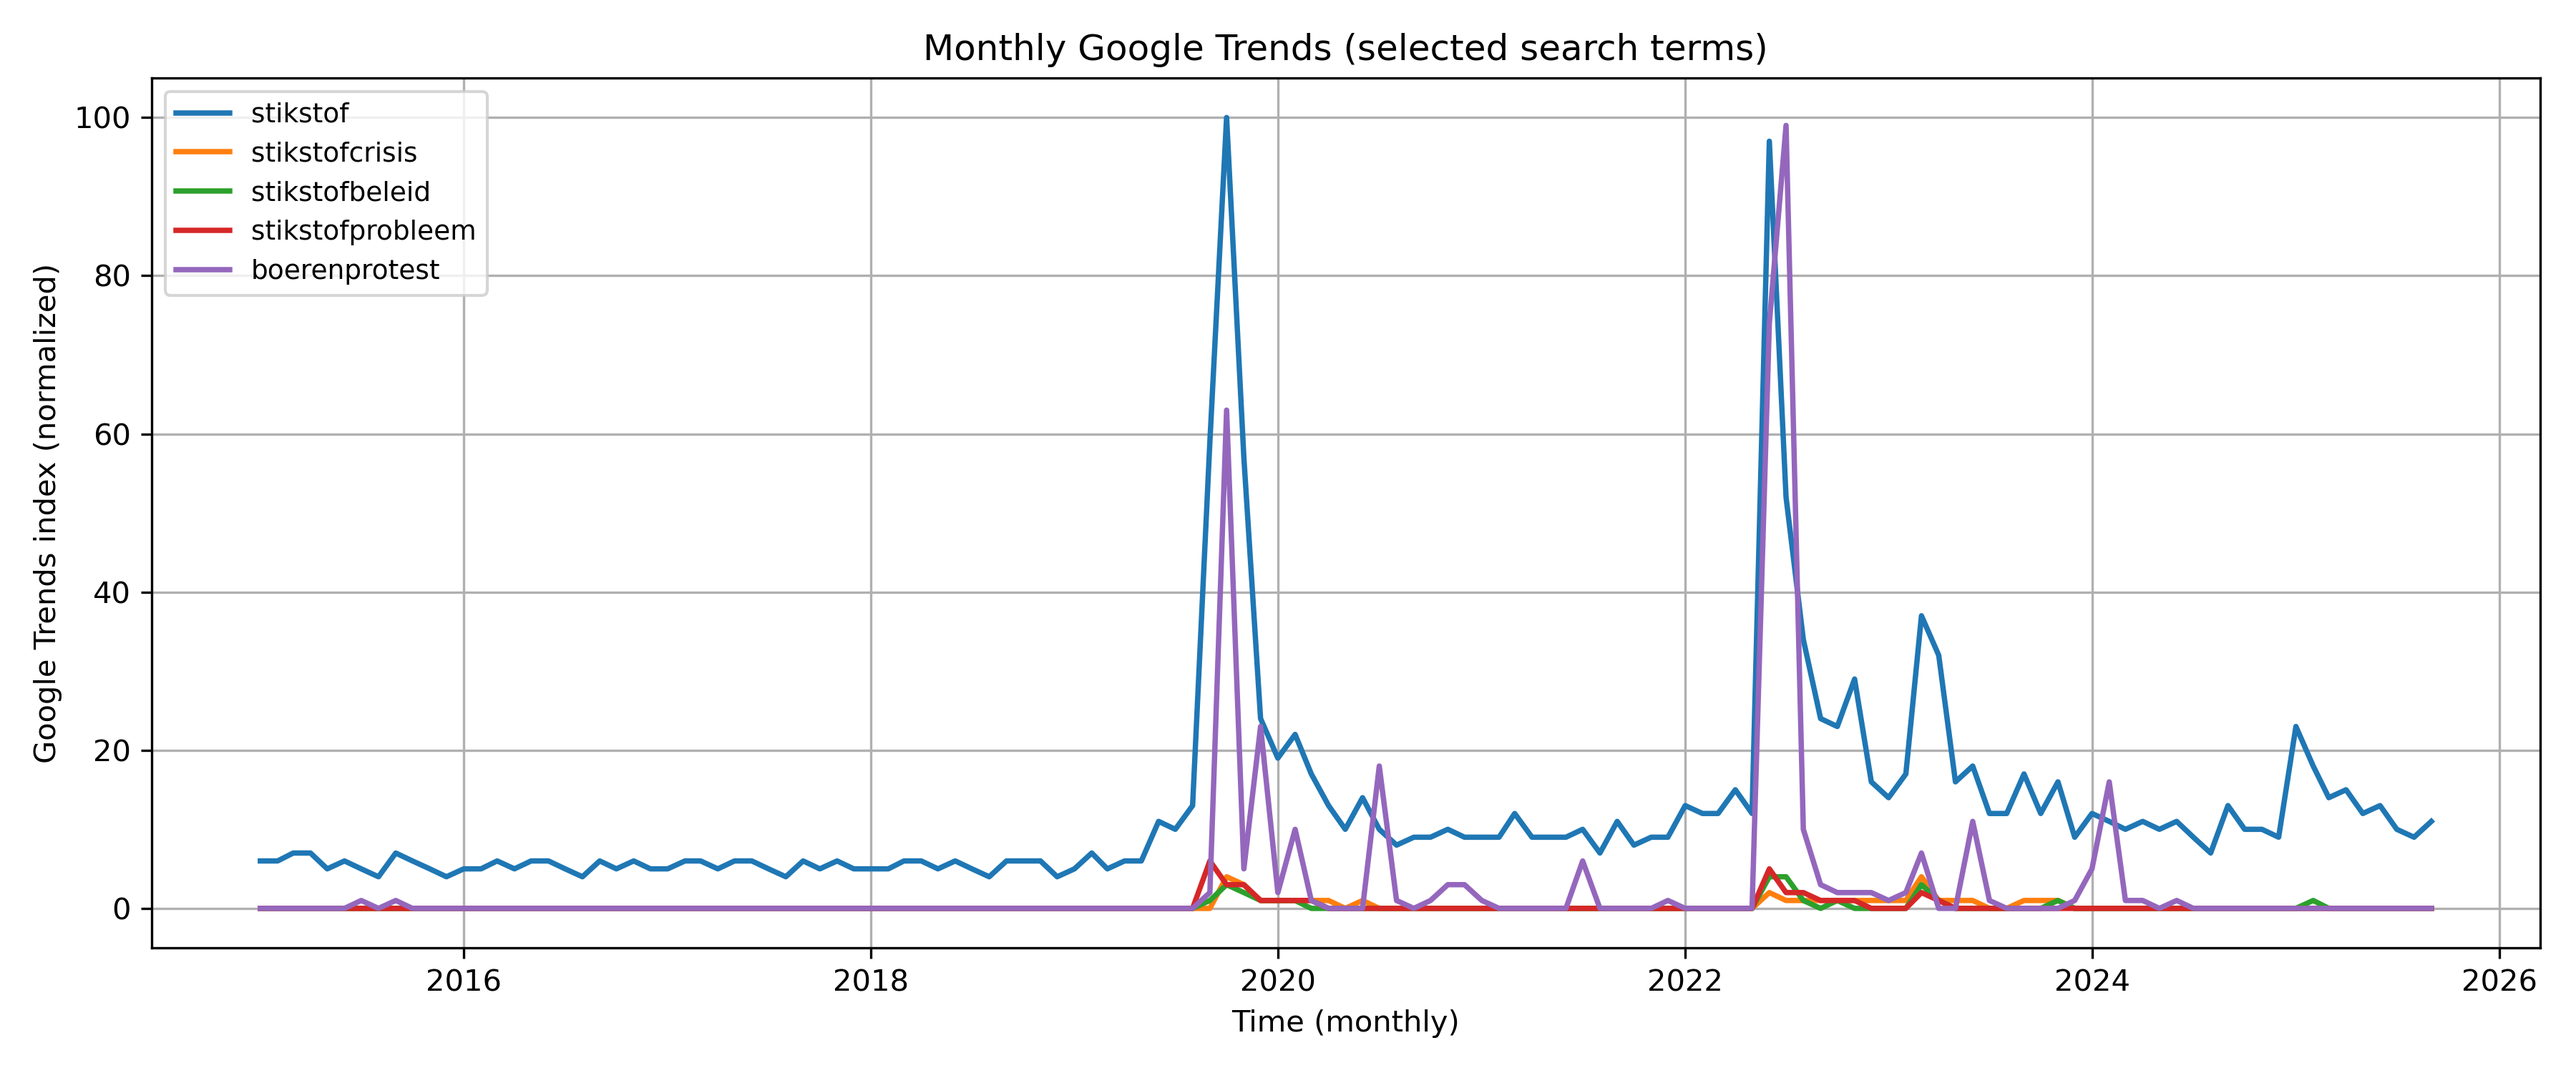
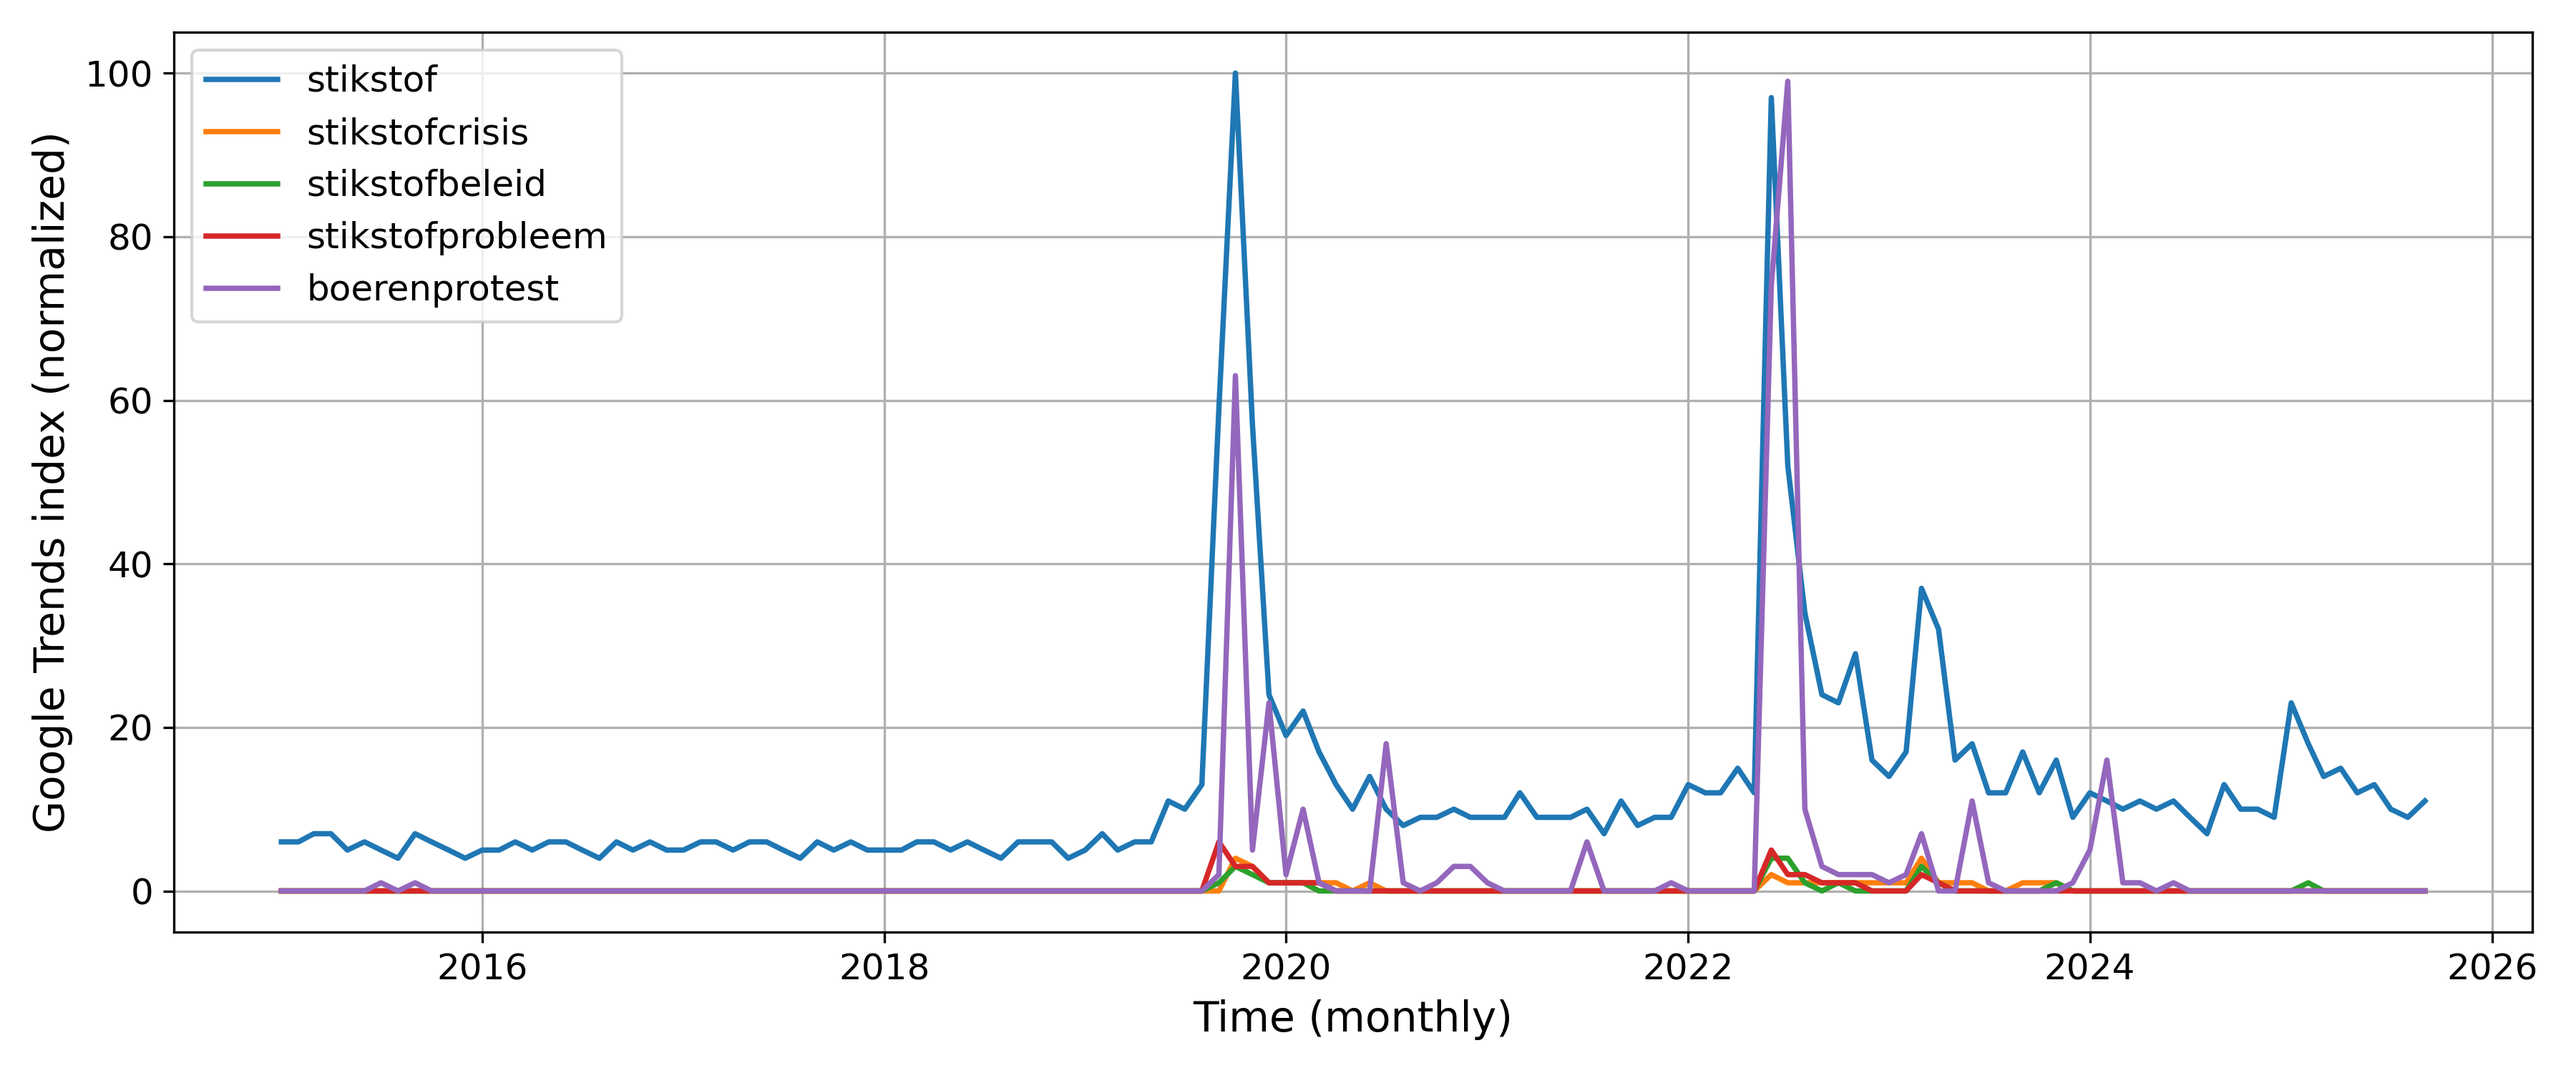
boerenkool

diff --git a/main_pelle.py b/main_pelle.py
@@ -3,6 +3,17 @@ import re
 import pandas as pd
 import matplotlib.pyplot as plt
 
+# =========================================================
+# Matplotlib styling (bigger text for paper-ready figures)
+# =========================================================
+plt.rcParams.update({
+    "axes.titlesize": 16,
+    "axes.labelsize": 14,
+    "xtick.labelsize": 12,
+    "ytick.labelsize": 12,
+    "legend.fontsize": 12,
+})
+
 # Optional: only needed for correlation tests
 try:
     from scipy.stats import spearmanr
@@ -167,9 +178,9 @@ if events_in_range is not None and len(events_in_range) > 0:
     for d in events_in_range["Date"]:
         plt.axvline(d, linestyle="--", alpha=0.25)
 
-plt.title("Monthly NOS Coverage of Nitrogen-Related Issues with Major Events")
 plt.xlabel("Time (monthly)")
 plt.ylabel("Number of NOS articles")
+plt.xticks(rotation=0)
 plt.grid(True)
 plt.tight_layout()
 
@@ -192,11 +203,10 @@ for c in term_cols:
             label=clean_label
         )
 
-plt.title("Monthly Google Trends (selected search terms)")
 plt.xlabel("Time (monthly)")
 plt.ylabel("Google Trends index (normalized)")
 plt.grid(True)
-plt.legend(fontsize=9, loc="upper left")
+plt.legend(loc="upper left")
 plt.tight_layout()
 
 out2 = os.path.join(IMAGES_DIR, "figure_2_google_trends.png")
